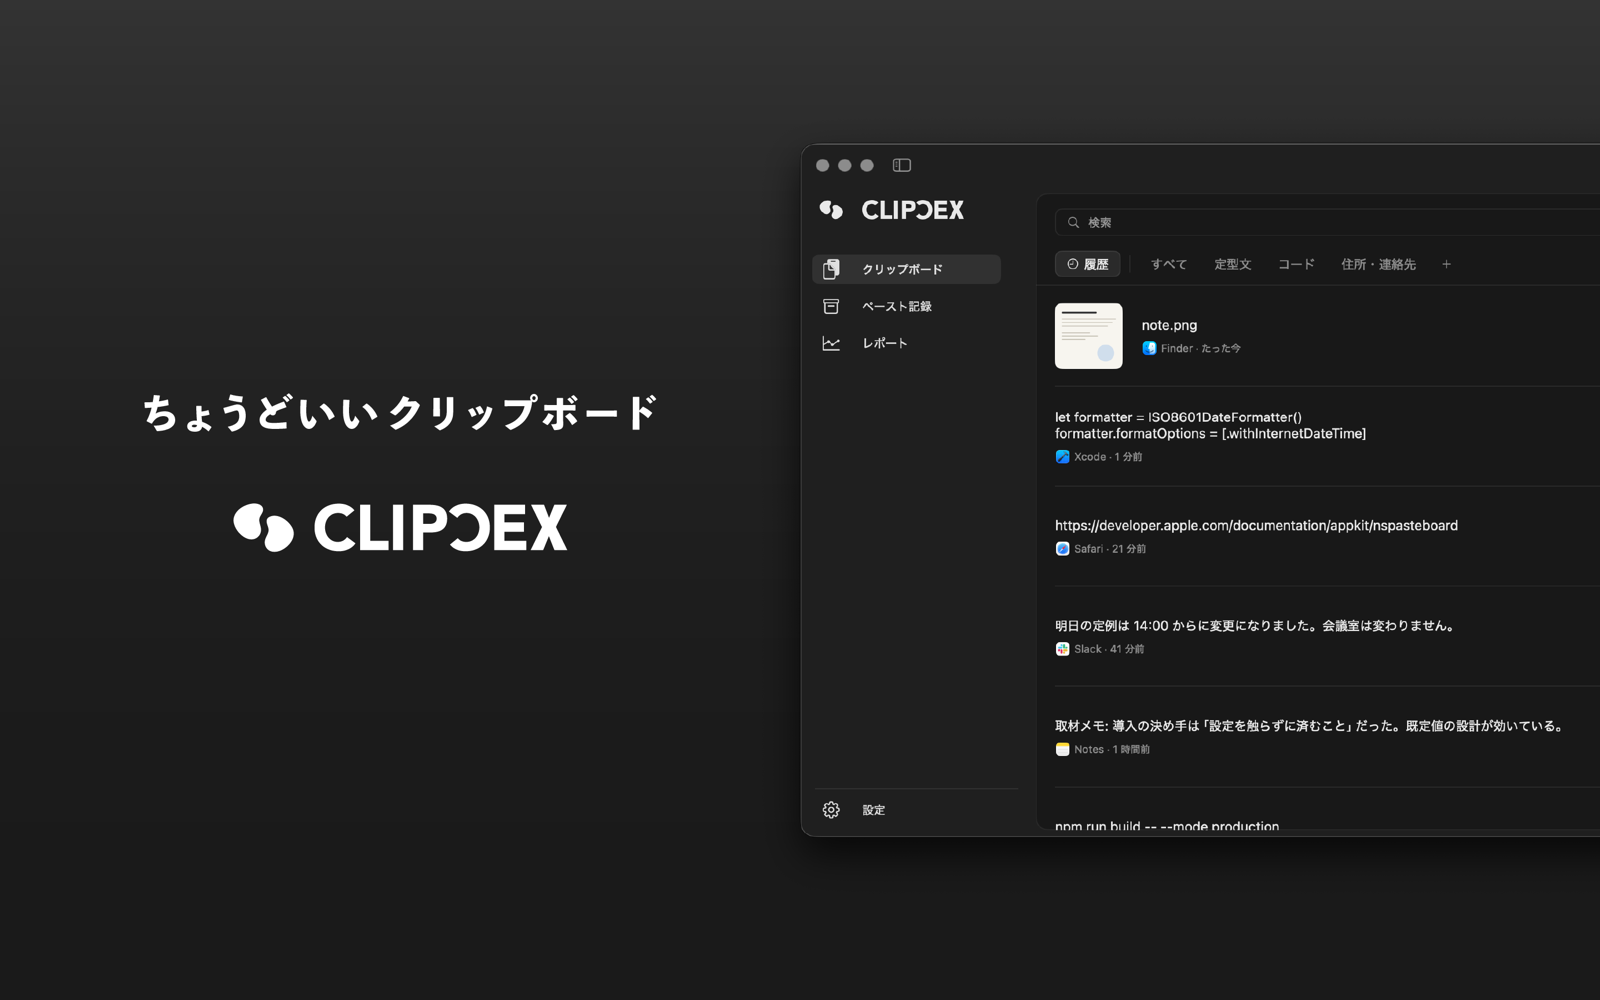
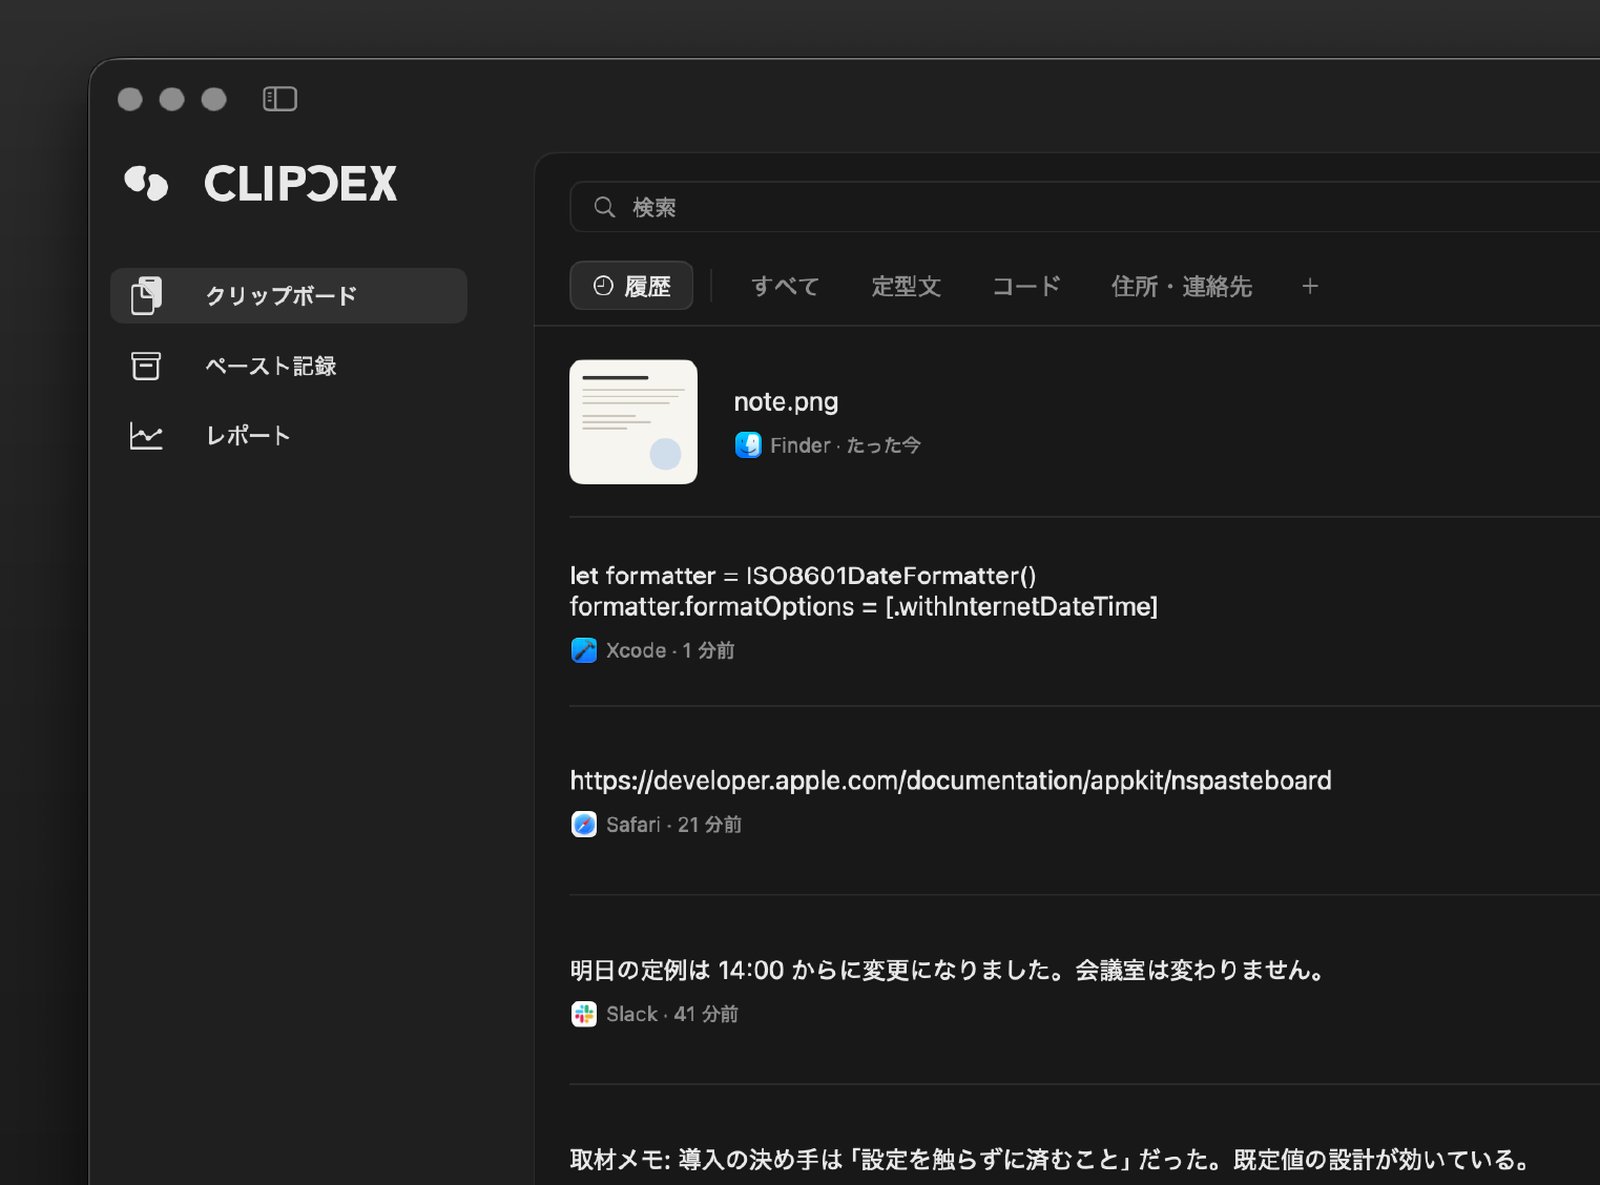
lp: 画像の大きさを揃え、反転行で画像だけ縮む不具合を直す
■ 画像 (assets/*.png の差し替え)
ClipDex 側の tools/lp/crop.py で提出パック (2880x1800) から切り出し直した。
これまでは CSS の percentage で一律に切り抜いていたが、5 枚の窓の大きさと位置が
それぞれ違うため揃わなかった (実測: 窓幅 1948 / 2164 / 2392 = 最大 23% 差)。
03-registered は上下に死に余白が出て小さく見え、04-search は逆に窓が枠より
広くて左右が切れていた。切り出し後は「窓が枠を占める割合」が全カット 94.3% で
一致する。ヒーローは下端の境界が背景に溶けて消えかけに見えたので、右と下の
2 辺で断ち切る構図に変えた。

■ 反転行の列比 (真因)
.feat.rev は .feat-txt に order:2 を付けるだけだったので、画像が .9fr 側に
入って **画像だけ 18% 縮んでいた** (実測 532px → 436px)。STOCK と QUICK が
小さく見えていたのはこれで、画像の切り出しとは別の原因だった。列比も一緒に
入れ替えて解消。

■ 見出しの折り返し
上記で本文列が 532 → 436px になったため、h2 を 32 → 30px にし、QUICK の
<br> 位置を文節の切れ目へ移した。1280 / 900 / 375px で「行数 == <br> 数 + 1」
= 意図しない折り返しゼロ、横あふれゼロを実測で確認。

diff --git a/index.html b/index.html
@@ -66,19 +66,12 @@
   h1{font-size:clamp(32px,5vw,52px); line-height:1.28; letter-spacing:.01em; margin:0 0 var(--s3); font-weight:700}
   .lede{color:var(--text-2); font-size:17px; margin:0 0 var(--s4); max-width:34em}
   .req{color:var(--text-3); font-size:13px; margin:var(--s2) 0 0}
+  /* 画像は tools/lp/crop.py が提出パック (2880x1800) から切り出したもの。
+     窓の外形を実測して「窓が枠を占める割合」を全カットで 94.3% に揃えてあるので、
+     CSS 側で位置や倍率を触る必要はない (触ると揃いが壊れる)。
+     縦横比は各カットの成り行き = width/height 属性が真。 */
   .shot{border:1px solid var(--line-2); border-radius:14px; overflow:hidden; background:var(--surface)}
-  .shot img{width:100%}
-  /* 提出用スクショ (2880x1800) は上部に見出し帯が焼き込まれ、01 は左半分が
-     タイトル + ロゴ。画像は無加工のまま、CSS で見せたい領域だけを切り出す。
-     数値は「元画像に対する割合」から算出した固定値。 */
-  .shot-crop{position:relative; overflow:hidden}
-  .shot-crop img{position:absolute; height:auto; max-width:none}
-  /* セクション: x 12%→88% / y 26%→100% → 比 (0.76*2880)/(0.74*1800)=1.64 */
-  .feat .shot-crop{aspect-ratio:1.64}
-  .feat .shot-crop img{width:131.6%; left:-15.8%; top:-35.1%}
-  /* ヒーロー: x 50%→100% / y 14%→83% → 比 (0.50*2880)/(0.69*1800)=1.16 */
-  .hero .shot-crop{aspect-ratio:1.16}
-  .hero .shot-crop img{width:200%; left:-100%; top:-23.3%}
+  .shot img{width:100%; height:auto}
   @media (max-width:860px){
     .hero{padding:var(--s5) 0}
     .hero-grid{grid-template-columns:1fr; gap:var(--s4)}
@@ -87,10 +80,14 @@
   /* ---- generic section ---- */
   section{padding:var(--s6) 0; border-bottom:1px solid var(--line)}
   .eyebrow{font-size:12px; letter-spacing:.18em; color:var(--text-3); margin:0 0 var(--s2); font-weight:650}
-  h2{font-size:clamp(23px,3vw,32px); line-height:1.45; margin:0 0 var(--s3); font-weight:700; letter-spacing:.01em}
+  h2{font-size:clamp(23px,2.7vw,30px); line-height:1.45; margin:0 0 var(--s3); font-weight:700; letter-spacing:.01em}
   h3{font-size:17px; margin:0 0 var(--s1); font-weight:650}
   .body{color:var(--text-2); margin:0; max-width:38em}
   .feat{display:grid; grid-template-columns:minmax(0,.9fr) minmax(0,1.1fr); gap:var(--s5); align-items:center}
+  /* 左右を入れ替える行は、列の比も一緒に入れ替える。order だけを付けると
+     画像が .9fr 側に入って **画像だけ 18% 縮む** (実測 532px → 436px)。
+     これが「STOCK だけ小さく見える」の正体だった (2026-08-19)。 */
+  .feat.rev{grid-template-columns:minmax(0,1.1fr) minmax(0,.9fr)}
   .feat.rev .feat-txt{order:2}
   .facts{list-style:none; padding:0; margin:var(--s3) 0 0; color:var(--text-2); font-size:15px}
   .facts li{padding-left:1.15em; position:relative; margin:6px 0}
@@ -169,10 +166,8 @@
       <p class="req">macOS 14.0 以降 / Apple Silicon・Intel 両対応</p>
     </div>
     <div class="shot">
-      <div class="shot-crop">
-        <img src="/assets/01-hero.png" width="1600" height="1000"
-             alt="ClipDex の統合ウインドウ。コピーの履歴が新しい順に並び、各行にコピー元アプリのアイコンが付いている。">
-      </div>
+      <img src="/assets/01-hero.png" width="1600" height="1185"
+           alt="ClipDex の統合ウインドウ。コピーの履歴が新しい順に並び、各行にコピー元アプリのアイコンが付いている。">
     </div>
   </div>
 </div>
@@ -199,10 +194,10 @@
         <li>無料で 30 件、Pro で 50〜1000 件（既定 200 件）</li>
       </ul>
     </div>
-    <div class="shot"><div class="shot-crop">
-      <img loading="lazy" src="/assets/02-history.png" width="1600" height="1000"
+    <div class="shot">
+      <img loading="lazy" src="/assets/02-history.png" width="1600" height="958"
            alt="クリップボード履歴の一覧。画像・コード・URL・チャットの文章・メモが、それぞれのコピー元アプリのアイコンと時刻つきで並んでいる。">
-    </div></div>
+    </div>
   </div>
 </section>
 
@@ -218,10 +213,10 @@
         <li>並べ替え・グループ移動・削除は <kbd>⌘</kbd><kbd>Z</kbd> で何段でも取り消せる</li>
       </ul>
     </div>
-    <div class="shot"><div class="shot-crop">
-      <img loading="lazy" src="/assets/03-registered.png" width="1600" height="1000"
+    <div class="shot">
+      <img loading="lazy" src="/assets/03-registered.png" width="1600" height="1016"
            alt="登録したものの一覧。画像素材と定型文が「定型文」「コード」「住所・連絡先」のグループに分かれて並んでいる。">
-    </div></div>
+    </div>
   </div>
 </section>
 
@@ -236,10 +231,10 @@
         <li>「Slack から」「今日」のような条件を重ねて絞れる</li>
       </ul>
     </div>
-    <div class="shot"><div class="shot-crop">
-      <img loading="lazy" src="/assets/04-search.png" width="1600" height="1000"
+    <div class="shot">
+      <img loading="lazy" src="/assets/04-search.png" width="1600" height="871"
            alt="横断検索の画面。「ありがとう」で検索した結果がクリップボード履歴と登録したものに分かれて表示され、アプリ・グループ・日付の絞り込みパネルが開いている。">
-    </div></div>
+    </div>
   </div>
 </section>
 
@@ -247,7 +242,7 @@
   <div class="wrap feat rev">
     <div class="feat-txt">
       <p class="eyebrow">QUICK</p>
-      <h2>ショートカットキーで呼び出して、<br>すぐに貼れる</h2>
+      <h2>ショートカットキーで<br>呼び出して、すぐに貼れる</h2>
       <p class="body">作業中のアプリから手を離さずに <kbd>⇧</kbd><kbd>⌘</kbd><kbd>V</kbd>。カーソルの近くに軽いパネルが出て、選んで <kbd>Enter</kbd> で貼り終わります。キーは好きな組み合わせに変えられます。</p>
       <ul class="facts">
         <li>履歴・登録・グループをタブで切り替えられる</li>
@@ -255,10 +250,10 @@
         <li><kbd>esc</kbd> で閉じる。使い終わったら元のアプリに戻ります</li>
       </ul>
     </div>
-    <div class="shot"><div class="shot-crop">
-      <img loading="lazy" src="/assets/05-picker.png" width="1600" height="1000"
+    <div class="shot">
+      <img loading="lazy" src="/assets/05-picker.png" width="1600" height="1013"
            alt="ショートカットキーで呼び出したクイックパネル。画像とテキストが並び、選択中の画像が原寸でプレビュー表示されている。">
-    </div></div>
+    </div>
   </div>
 </section>
 
@@ -275,10 +270,10 @@
         <li>今日・週次・直近 4 週間・今月・今年の 5 期間</li>
       </ul>
     </div>
-    <div class="shot"><div class="shot-crop">
-      <img loading="lazy" src="/assets/06-report.png" width="1600" height="1000"
+    <div class="shot">
+      <img loading="lazy" src="/assets/06-report.png" width="1600" height="1016"
            alt="週次レポート。コピー 308 件・ペースト 267 件・16,821 文字の集計と、アプリ別・内容別の内訳バー、曜日と時間のヒートマップが表示されている。">
-    </div></div>
+    </div>
   </div>
 </section>
 
